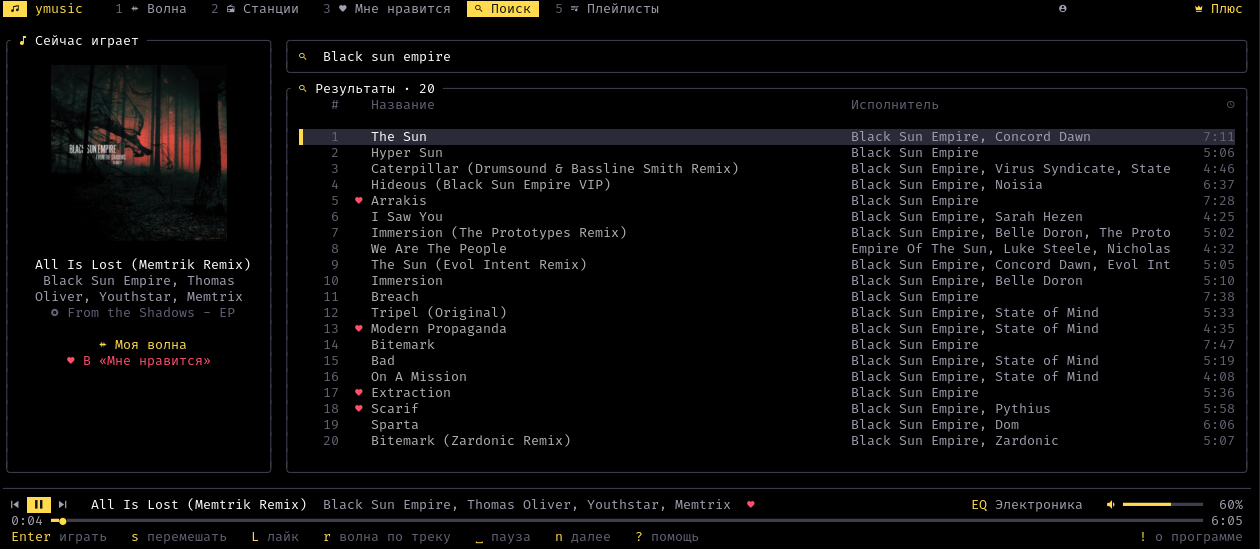
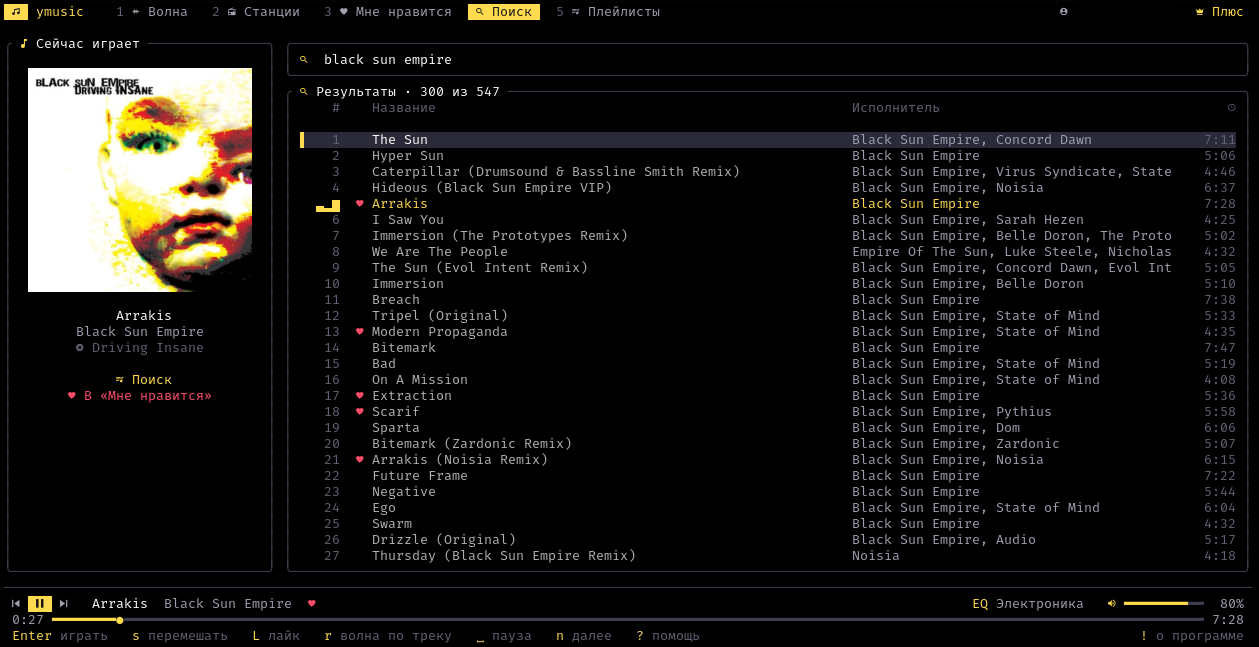
ymusic-cli: Поиск в README, новый скриншот поиска

diff --git a/README.md b/README.md
@@ -41,7 +41,8 @@
 - **Мне нравится** — все лайкнутые треки, воспроизведение по порядку или вперемешку.
 - **Плейлисты** — ваши плейлисты (включая загруженные треки): просмотр, воспроизведение по порядку или вперемешку,
   добавление и удаление треков, переименование и удаление плейлистов.
-- **Поиск** треков.
+- **Поиск** треков: результаты подгружаются по мере прокрутки списка (в заголовке видно, сколько показано из найденных),
+  а очередь, запущенная из поиска, сама пополняется следующими страницами.
 - **Качество звука** — экономия трафика (≈64 кбит/с), обычное (≈192 кбит/с) или лучшее, что отдаёт сервер; выбор запоминается.
 - **Эквалайзер** — пресеты «Больше баса», «Вокал», «Рок», «Электроника», «Мягкий»; выбор запоминается.
 - **Обложки альбомов** прямо в терминале: sixel / kitty / iTerm2-протоколы (foot, kitty, WezTerm, Ghostty, Konsole, iTerm2),
@@ -198,6 +199,7 @@ ymusic --no-icons            # без иконок Nerd Font
 - `A` — плейлист из всех треков исполнителя выбранного (или текущего) трека.
 - Вкладка «Плейлисты» (`5`) — плейлисты пользователя: `Enter` — открыть, `s` — вперемешку, `x` — удалить плейлист или трек, `e` — переименовать.
 - `a` — добавить выбранный (или текущий) трек в свой плейлист.
+- Переработан поиск: вместо первых 20 треков — подгрузка всех найденных страницами по мере прокрутки; очередь, запущенная из поиска, пополняется новыми страницами.
 - `E` — эквалайзер с пресетами (через фильтры mpv), выбор сохраняется в настройках.
 - `B` — выбор качества звука (экономия трафика / обычное / лучшее), сохраняется в настройках.
 - `!` — окно «О программе»: версия и кликабельные ссылки на репозиторий, пакеты в AUR (`ymusic-cli` и `ymusic-cli-bin`) и оригинальный проект.
